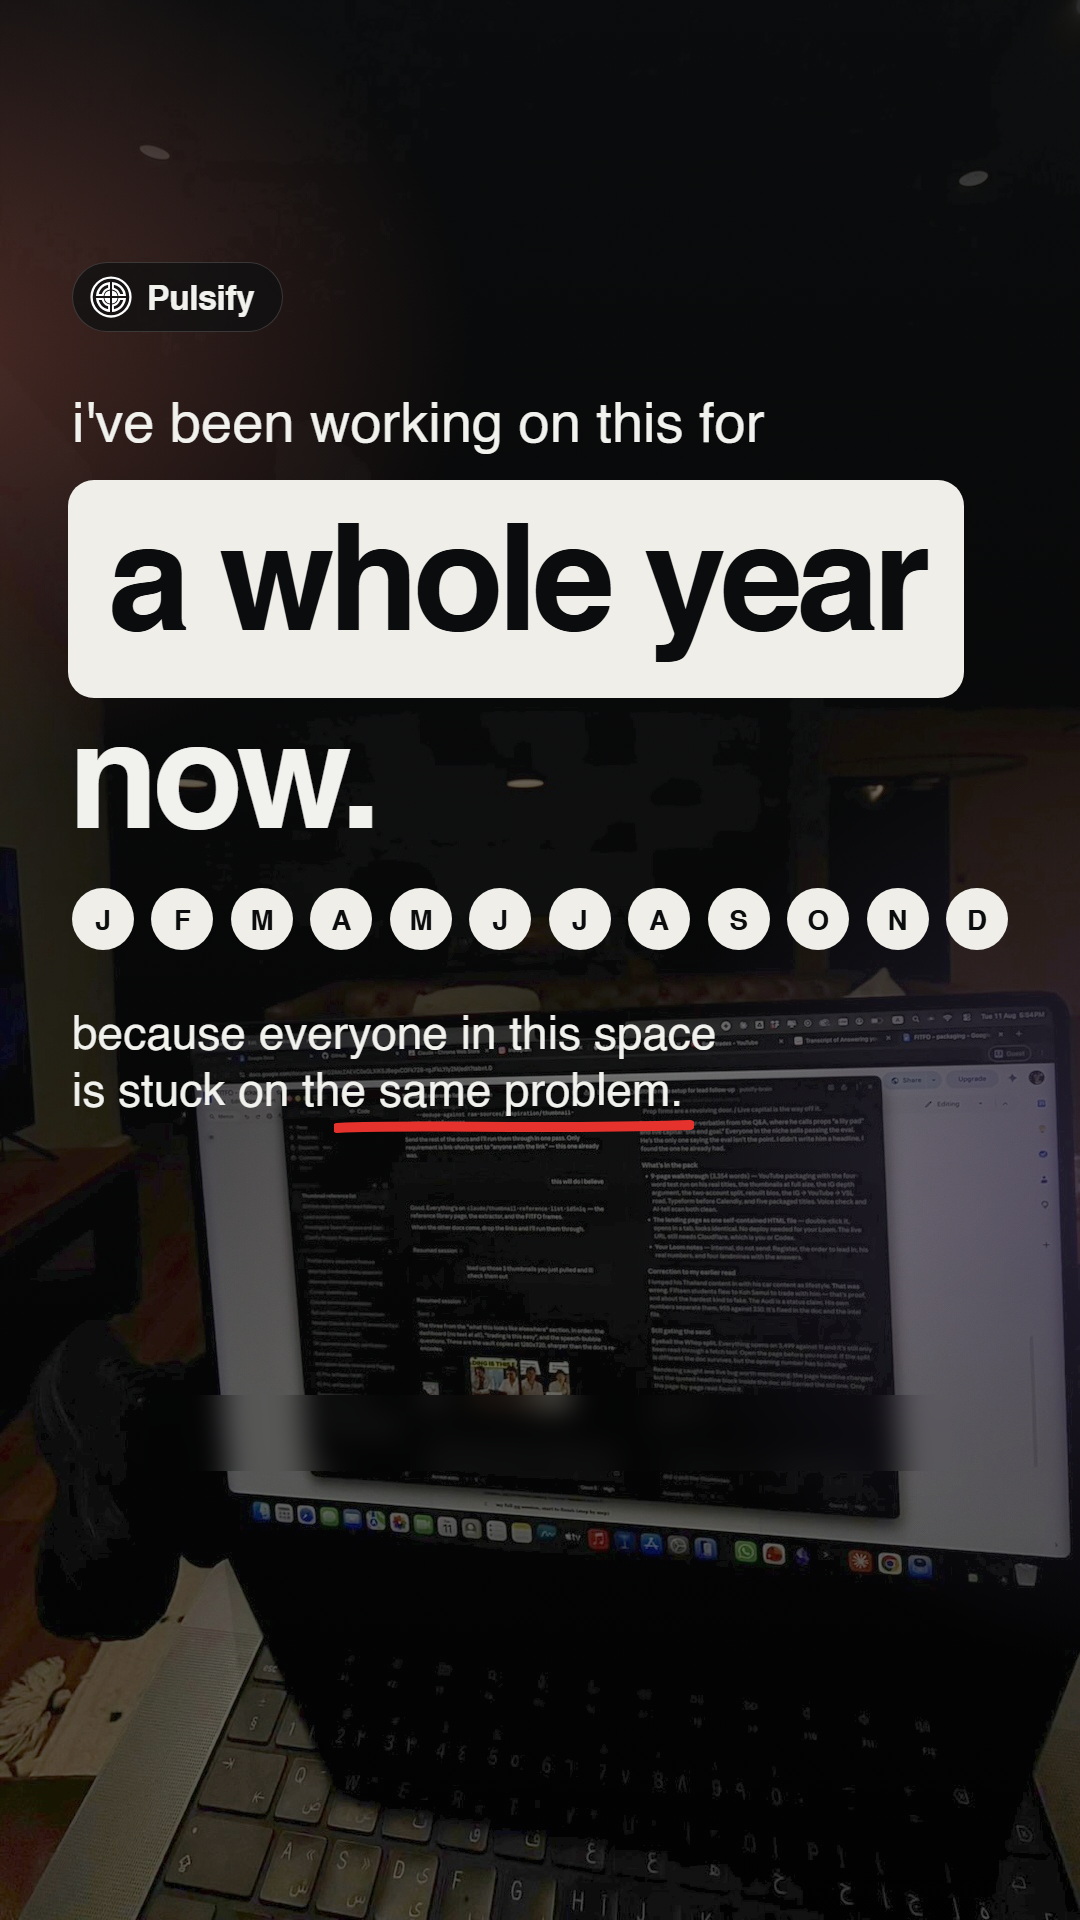
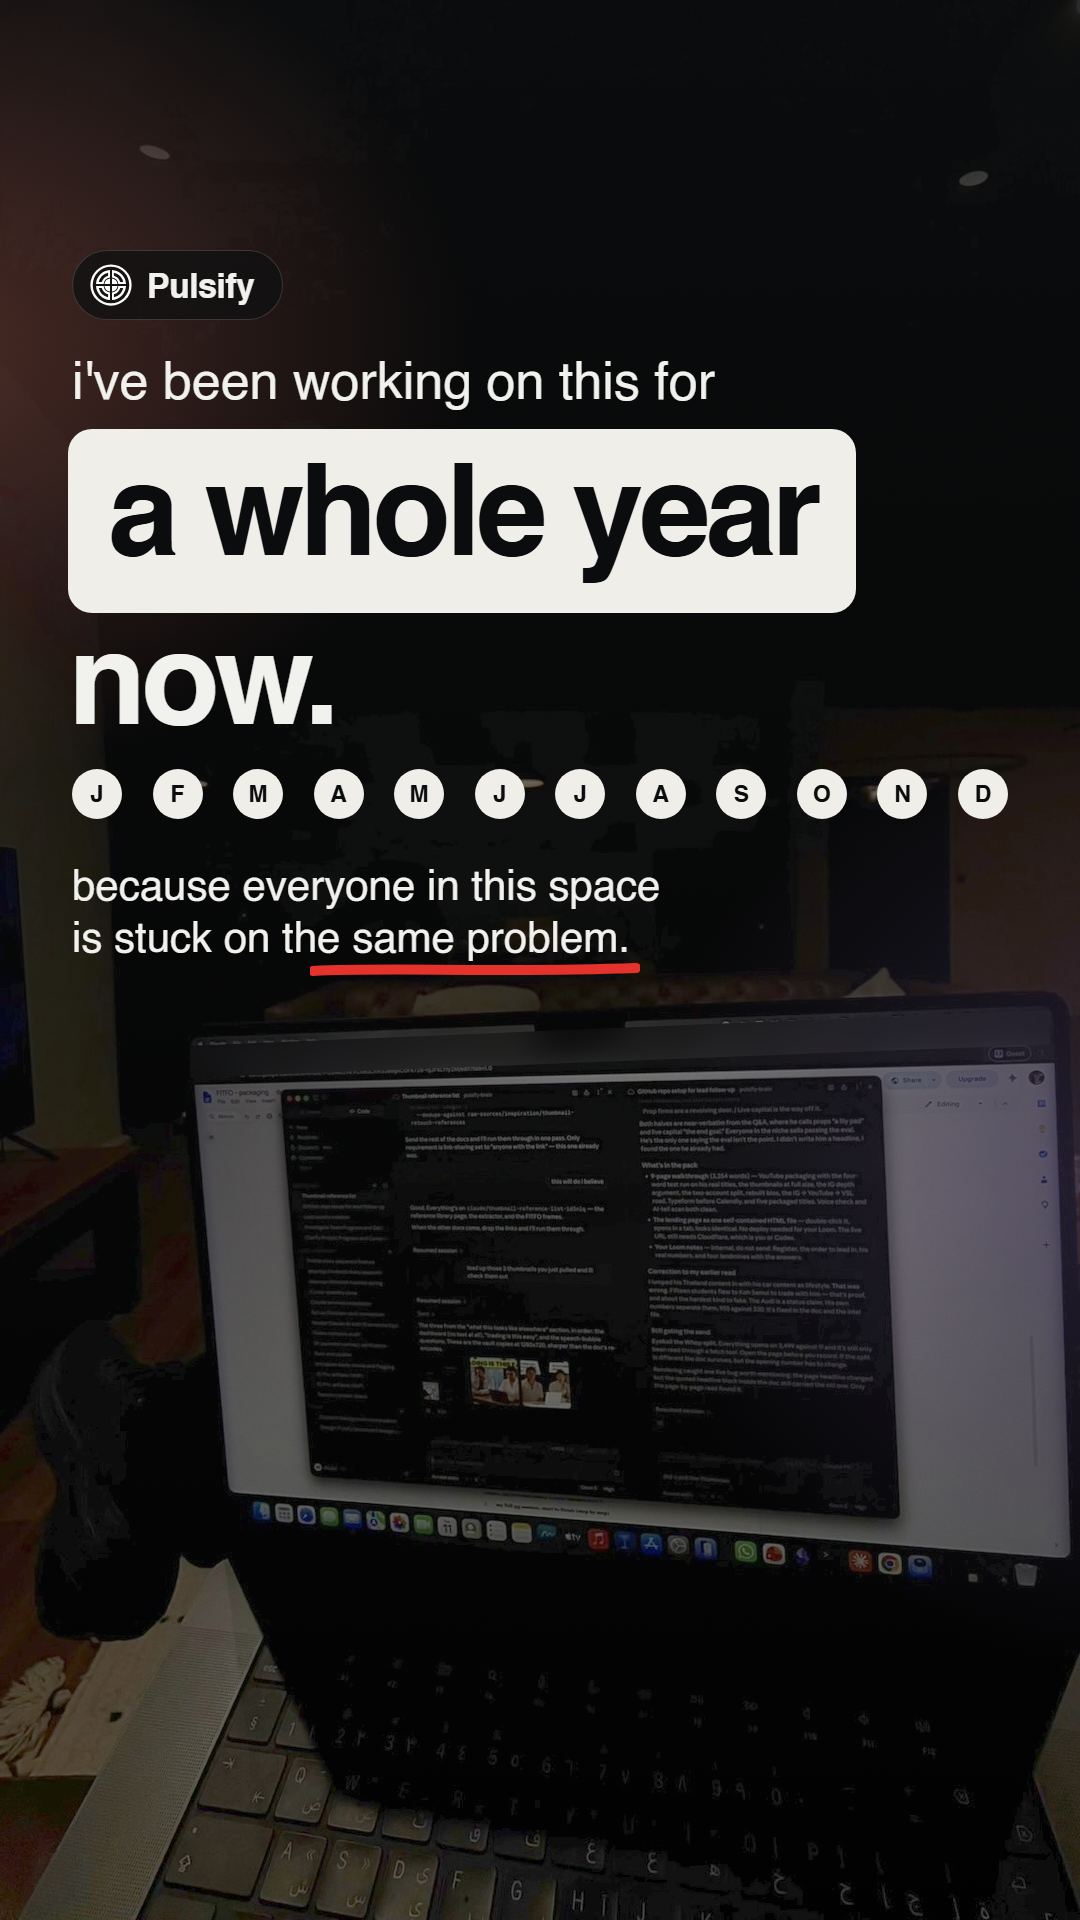
auto: checkpoint 2026-10-07 17:17:10

diff --git a/output/highlight-saas/claude-v2/01.html b/output/highlight-saas/claude-v2/01.html
@@ -10,14 +10,14 @@ html,body{width:1080px;height:1920px;overflow:hidden;background:#000;font-family
 .navpill{display:inline-flex;align-items:center;gap:14px;padding:12px 28px 12px 16px;border-radius:999px;background:rgba(14,15,17,.72);
  border:1px solid rgba(255,255,255,.16);font-size:34px;font-weight:700;letter-spacing:-.6px}
 .navpill img{width:44px;height:44px;filter:invert(1)}
-</style><body><div class="bg" style="background-image:url('file:///C:/Users/Abdullah/Desktop/Pulsify-Brain/output/highlight-saas/claude-v2/img/s1.jpg')"></div><div class="abs" style="inset:0;background:linear-gradient(180deg,rgba(11,12,13,0.88) 0%,rgba(11,12,13,0.62) 42%,rgba(11,12,13,0.05) 100%)"></div><div class="glow"></div><div class="grain"></div>
-    <div class="abs" style="left:72px;top:262px"><div class="navpill"><img src="file:///C:/Users/Abdullah/Desktop/Pulsify-Brain/brand/logo/mark.svg">Pulsify</div></div>
-    <div class="abs" style="left:72px;top:392px;width:936px">
-      <div style="font-size:56px;line-height:1.1;white-space:nowrap">i've been working on this for</div>
-      <div style="display:inline-block;margin:26px 0 6px -4px;background:#efeee9;color:#0b0c0d;padding:22px 40px 48px;border-radius:26px;font-size:148px;line-height:1;font-weight:700;letter-spacing:-6px;white-space:nowrap">a whole year</div>
-      <div style="font-size:148px;line-height:.95;font-weight:700;letter-spacing:-6px;margin-left:-4px">now.</div>
-      <div style="display:flex;justify-content:space-between;width:936px;margin-top:44px"><div style="width:62px;height:62px;border-radius:50%;background:#efeee9;color:#0b0c0d;display:grid;place-items:center;font-size:28px;font-weight:700">J</div><div style="width:62px;height:62px;border-radius:50%;background:#efeee9;color:#0b0c0d;display:grid;place-items:center;font-size:28px;font-weight:700">F</div><div style="width:62px;height:62px;border-radius:50%;background:#efeee9;color:#0b0c0d;display:grid;place-items:center;font-size:28px;font-weight:700">M</div><div style="width:62px;height:62px;border-radius:50%;background:#efeee9;color:#0b0c0d;display:grid;place-items:center;font-size:28px;font-weight:700">A</div><div style="width:62px;height:62px;border-radius:50%;background:#efeee9;color:#0b0c0d;display:grid;place-items:center;font-size:28px;font-weight:700">M</div><div style="width:62px;height:62px;border-radius:50%;background:#efeee9;color:#0b0c0d;display:grid;place-items:center;font-size:28px;font-weight:700">J</div><div style="width:62px;height:62px;border-radius:50%;background:#efeee9;color:#0b0c0d;display:grid;place-items:center;font-size:28px;font-weight:700">J</div><div style="width:62px;height:62px;border-radius:50%;background:#efeee9;color:#0b0c0d;display:grid;place-items:center;font-size:28px;font-weight:700">A</div><div style="width:62px;height:62px;border-radius:50%;background:#efeee9;color:#0b0c0d;display:grid;place-items:center;font-size:28px;font-weight:700">S</div><div style="width:62px;height:62px;border-radius:50%;background:#efeee9;color:#0b0c0d;display:grid;place-items:center;font-size:28px;font-weight:700">O</div><div style="width:62px;height:62px;border-radius:50%;background:#efeee9;color:#0b0c0d;display:grid;place-items:center;font-size:28px;font-weight:700">N</div><div style="width:62px;height:62px;border-radius:50%;background:#efeee9;color:#0b0c0d;display:grid;place-items:center;font-size:28px;font-weight:700">D</div></div>
-      <div style="margin-top:54px;font-size:46px;line-height:1.24">because everyone in this space<br>is stuck on the same problem.</div>
-      <div style="margin:-2px 0 0 262px;width:360px"><svg width="360" height="26" viewBox="0 0 360 26" style="display:block"><path d="M3 12 C 90.0 8, 198.00000000000003 14, 356 9" fill="none" stroke="#e5322d" stroke-width="10" stroke-linecap="round"/></svg></div>
+</style><body><div class="bg" style="background-image:url('file:///C:/Users/Abdullah/Desktop/Pulsify-Brain/output/highlight-saas/claude-v2/img/s1.jpg')"></div><div class="abs" style="inset:0;background:linear-gradient(180deg,rgba(11,12,13,0.88) 0%,rgba(11,12,13,0.6) 42%,rgba(11,12,13,0.05) 100%)"></div><div class="glow"></div><div class="grain"></div>
+    <div class="abs" style="left:72px;top:250px"><div class="navpill"><img src="file:///C:/Users/Abdullah/Desktop/Pulsify-Brain/brand/logo/mark.svg">Pulsify</div></div>
+    <div class="abs" style="left:72px;top:352px;width:936px">
+      <div style="font-size:52px;line-height:1.1;white-space:nowrap">i've been working on this for</div>
+      <div style="display:inline-block;margin:20px 0 4px -4px;background:#efeee9;color:#0b0c0d;padding:16px 40px 40px;border-radius:24px;font-size:128px;line-height:1;font-weight:700;letter-spacing:-5px;white-space:nowrap">a whole year</div>
+      <div style="font-size:128px;line-height:.95;font-weight:700;letter-spacing:-5px;margin-left:-4px">now.</div>
+      <div style="display:flex;justify-content:space-between;width:936px;margin-top:30px"><div style="width:50px;height:50px;border-radius:50%;background:#efeee9;color:#0b0c0d;display:grid;place-items:center;font-size:23px;font-weight:700">J</div><div style="width:50px;height:50px;border-radius:50%;background:#efeee9;color:#0b0c0d;display:grid;place-items:center;font-size:23px;font-weight:700">F</div><div style="width:50px;height:50px;border-radius:50%;background:#efeee9;color:#0b0c0d;display:grid;place-items:center;font-size:23px;font-weight:700">M</div><div style="width:50px;height:50px;border-radius:50%;background:#efeee9;color:#0b0c0d;display:grid;place-items:center;font-size:23px;font-weight:700">A</div><div style="width:50px;height:50px;border-radius:50%;background:#efeee9;color:#0b0c0d;display:grid;place-items:center;font-size:23px;font-weight:700">M</div><div style="width:50px;height:50px;border-radius:50%;background:#efeee9;color:#0b0c0d;display:grid;place-items:center;font-size:23px;font-weight:700">J</div><div style="width:50px;height:50px;border-radius:50%;background:#efeee9;color:#0b0c0d;display:grid;place-items:center;font-size:23px;font-weight:700">J</div><div style="width:50px;height:50px;border-radius:50%;background:#efeee9;color:#0b0c0d;display:grid;place-items:center;font-size:23px;font-weight:700">A</div><div style="width:50px;height:50px;border-radius:50%;background:#efeee9;color:#0b0c0d;display:grid;place-items:center;font-size:23px;font-weight:700">S</div><div style="width:50px;height:50px;border-radius:50%;background:#efeee9;color:#0b0c0d;display:grid;place-items:center;font-size:23px;font-weight:700">O</div><div style="width:50px;height:50px;border-radius:50%;background:#efeee9;color:#0b0c0d;display:grid;place-items:center;font-size:23px;font-weight:700">N</div><div style="width:50px;height:50px;border-radius:50%;background:#efeee9;color:#0b0c0d;display:grid;place-items:center;font-size:23px;font-weight:700">D</div></div>
+      <div style="margin-top:40px;font-size:42px;line-height:1.24">because everyone in this space<br>is stuck on the same problem.</div>
+      <div style="margin:-4px 0 0 238px;width:330px"><svg width="330" height="26" viewBox="0 0 330 26" style="display:block"><path d="M3 12 C 82.5 8, 181.50000000000003 14, 326 9" fill="none" stroke="#e5322d" stroke-width="10" stroke-linecap="round"/></svg></div>
     </div>
-    <div class="abs" style="left:150px;top:1395px;width:800px;height:76px;backdrop-filter:blur(14px)"></div></body>
+    <div class="abs" style="left:190px;top:1005px;width:860px;height:80px;backdrop-filter:blur(18px);clip-path:polygon(0% 51%,100% 6%,100% 49%,0% 91%)"></div></body>

diff --git a/output/highlight-saas/claude-v2/build3.py b/output/highlight-saas/claude-v2/build3.py
@@ -64,18 +64,18 @@ def scene(img, top, mid, bot):
 
 def slide1():
     img = prep('50-IMG_7545.JPEG', 's1.jpg', 0.55, (0.5, 0.6))
-    dots = ''.join(f'<div style="width:62px;height:62px;border-radius:50%;background:{SILVER};color:{GRAPH};display:grid;place-items:center;font-size:28px;font-weight:700">{m}</div>' for m in 'JFMAMJJASOND')
-    body = scene(img, .88, .62, .05) + f'''
-    <div class="abs" style="left:72px;top:262px">{navpill()}</div>
-    <div class="abs" style="left:72px;top:392px;width:936px">
-      <div style="font-size:56px;line-height:1.1;white-space:nowrap">i've been working on this for</div>
-      <div style="display:inline-block;margin:26px 0 6px -4px;background:{SILVER};color:{GRAPH};padding:22px 40px 48px;border-radius:26px;font-size:148px;line-height:1;font-weight:700;letter-spacing:-6px;white-space:nowrap">a whole year</div>
-      <div style="font-size:148px;line-height:.95;font-weight:700;letter-spacing:-6px;margin-left:-4px">now.</div>
-      <div style="display:flex;justify-content:space-between;width:936px;margin-top:44px">{dots}</div>
-      <div style="margin-top:54px;font-size:46px;line-height:1.24">because everyone in this space<br>is stuck on the same problem.</div>
-      <div style="margin:-2px 0 0 262px;width:360px">{underline(360)}</div>
+    dots = ''.join(f'<div style="width:50px;height:50px;border-radius:50%;background:{SILVER};color:{GRAPH};display:grid;place-items:center;font-size:23px;font-weight:700">{m}</div>' for m in 'JFMAMJJASOND')
+    body = scene(img, .88, .6, .05) + f'''
+    <div class="abs" style="left:72px;top:250px">{navpill()}</div>
+    <div class="abs" style="left:72px;top:352px;width:936px">
+      <div style="font-size:52px;line-height:1.1;white-space:nowrap">i've been working on this for</div>
+      <div style="display:inline-block;margin:20px 0 4px -4px;background:{SILVER};color:{GRAPH};padding:16px 40px 40px;border-radius:24px;font-size:128px;line-height:1;font-weight:700;letter-spacing:-5px;white-space:nowrap">a whole year</div>
+      <div style="font-size:128px;line-height:.95;font-weight:700;letter-spacing:-5px;margin-left:-4px">now.</div>
+      <div style="display:flex;justify-content:space-between;width:936px;margin-top:30px">{dots}</div>
+      <div style="margin-top:40px;font-size:42px;line-height:1.24">because everyone in this space<br>is stuck on the same problem.</div>
+      <div style="margin:-4px 0 0 238px;width:330px">{underline(330)}</div>
     </div>
-    <div class="abs" style="left:150px;top:1395px;width:800px;height:76px;backdrop-filter:blur(14px)"></div>'''
+    <div class="abs" style="left:190px;top:1005px;width:860px;height:80px;backdrop-filter:blur(18px);clip-path:polygon(0% 51%,100% 6%,100% 49%,0% 91%)"></div>'''
     return page(body)
 
 
